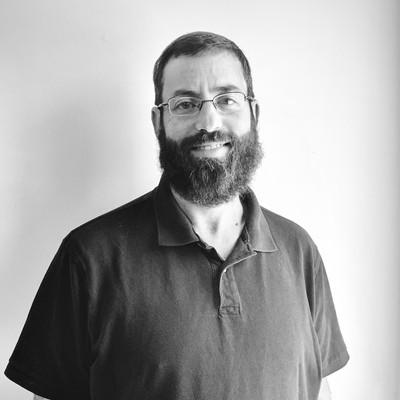
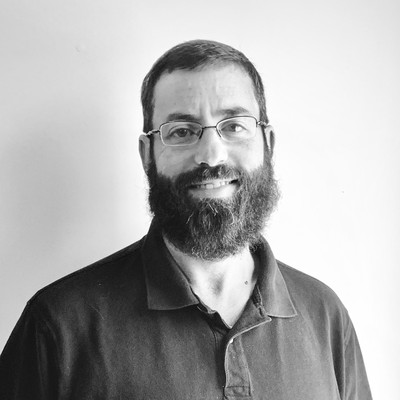
Add family photo collage, tighten profile crop, and polish copy
- Crop profile photo in slightly tighter on face
- Compose grayscale family photo collage for About section
- Rework About section stat cards (swap iF Design Award for 20 Years)
- Fix resume bullet dash alignment and Education/Recognitions header alignment
- Update team growth wording to "zero to 45+" across resume and timeline
- Lead Spekt description with the agentic AI pipeline angle
- Work in "0-to-1" framing across bio and competencies

diff --git a/src/components/sections/AboutSection.tsx b/src/components/sections/AboutSection.tsx
@@ -4,8 +4,8 @@ import { profile, competencies } from '../../data/profile'
 import { CompetencyBadge } from '../ui/CompetencyBadge'
 
 const stats = [
+  { icon: <Award size={16} />, label: '20 Years', sub: 'One company, many chapters' },
   { icon: <FileCode2 size={16} />, label: '6 Patents', sub: 'awarded + 1 pending' },
-  { icon: <Award size={16} />, label: 'iF Design Award', sub: '2021 winner' },
   { icon: <GraduationCap size={16} />, label: 'MS + BS', sub: 'Electrical & Computer Eng.' },
   { icon: <MapPin size={16} />, label: 'Senoia, GA', sub: 'Atlanta Metro' },
 ]
@@ -45,21 +45,33 @@ export function AboutSection() {
             ))}
           </div>
 
-          <div className="md:col-span-2 grid grid-cols-2 gap-4 content-start">
-            {stats.map((stat, i) => (
-              <motion.div
-                key={stat.label}
-                initial={{ opacity: 0, scale: 0.95 }}
-                whileInView={{ opacity: 1, scale: 1 }}
-                viewport={{ once: true, margin: '-40px' }}
-                transition={{ duration: 0.4, delay: i * 0.08 }}
-                className="p-4 rounded-xl bg-[#111827] border border-slate-800 flex flex-col gap-2"
-              >
-                <span className="text-blue-400">{stat.icon}</span>
-                <p className="text-slate-100 font-semibold text-sm">{stat.label}</p>
-                <p className="text-slate-500 text-xs">{stat.sub}</p>
-              </motion.div>
-            ))}
+          <div className="md:col-span-2 flex flex-col gap-4 content-start">
+            <div className="grid grid-cols-2 gap-4">
+              {stats.map((stat, i) => (
+                <motion.div
+                  key={stat.label}
+                  initial={{ opacity: 0, scale: 0.95 }}
+                  whileInView={{ opacity: 1, scale: 1 }}
+                  viewport={{ once: true, margin: '-40px' }}
+                  transition={{ duration: 0.4, delay: i * 0.08 }}
+                  className="p-4 rounded-xl bg-[#111827] border border-slate-800 flex flex-col gap-2"
+                >
+                  <span className="text-blue-400">{stat.icon}</span>
+                  <p className="text-slate-100 font-semibold text-sm">{stat.label}</p>
+                  <p className="text-slate-500 text-xs">{stat.sub}</p>
+                </motion.div>
+              ))}
+            </div>
+            <motion.img
+              src="/images/family-collage.jpg"
+              alt="Family moments"
+              initial={{ opacity: 0, y: 12 }}
+              whileInView={{ opacity: 1, y: 0 }}
+              viewport={{ once: true }}
+              transition={{ duration: 0.6, delay: 0.2 }}
+              className="w-full rounded-xl select-none pointer-events-none grayscale"
+              draggable={false}
+            />
           </div>
         </div>
 
@@ -80,6 +92,7 @@ export function AboutSection() {
             <CompetencyBadge key={c.title} competency={c} index={i} />
           ))}
         </div>
+
       </div>
     </section>
   )

diff --git a/src/data/profile.ts b/src/data/profile.ts
@@ -8,8 +8,8 @@ export const profile = {
   linkedin: 'https://www.linkedin.com/in/brandon-rogers-98727b3/',
   github: 'https://github.com/brogers4',
   bio: [
-    'I build things that haven\'t been built before. For twenty years at Eaton Corporation, I\'ve had the rare privilege of taking ideas from a whiteboard — or a patent filing — all the way to products used by hundreds of thousands of people. Whether growing a software team from three engineers to forty-five, architecting a cloud IoT platform from scratch, or co-inventing a smart circuit breaker that spawned a $100M business, I\'ve always operated at the intersection of deep technical craft and strategic business thinking.',
-    'My career has been defined by doing hard things in emerging spaces — IoT before it had a name, energy management before the grid was "smart," agentic AI workflows before most teams knew where to start. I\'m drawn to problems that require you to invent the solution, not just implement it. That means building not just the product, but the team, the process, the roadmap, and sometimes the market itself.',
+    'I build things that haven\'t been built before. Almost everything I\'ve done in twenty years at Eaton has been 0-to-1 — taking ideas from a whiteboard, a patent filing, or a napkin sketch all the way to products used by hundreds of thousands of people. Whether growing a software team from zero to forty-five engineers, architecting a cloud IoT platform from scratch, or co-inventing a smart circuit breaker that spawned a $100M+ and growing business, I\'ve always operated at the intersection of deep technical craft and strategic business thinking.',
+    'My career has been defined by doing hard things in emerging spaces — IoT before it had a name, energy management before the grid was "smart," agentic AI workflows before most teams knew where to start. I\'m drawn to problems that require you to invent the solution, not just implement it. That means building not just the product, but the team, the process, the roadmap, and sometimes the market itself. That\'s what 0-to-1 really looks like.',
     'Outside of work, I live in Senoia, GA with my wife, our son (14) and daughter (9), and our Australian Shepherd, S\'mores. I love sports, photography, art, and traveling — and I try to bring the same curiosity I have on those adventures into everything I build.',
   ],
   jobsQuote: 'Here\'s to the crazy ones. The misfits. The rebels. The troublemakers. The round pegs in the square holes. The ones who see things differently. They\'re not fond of rules. And they have no respect for the status quo. You can quote them, disagree with them, glorify or vilify them. About the only thing you can\'t do is ignore them. Because they change things. They push the human race forward. And while some may see them as the crazy ones, we see genius. Because the people who are crazy enough to think they can change the world, are the ones who do.',
@@ -48,7 +48,7 @@ export const competencies: Competency[] = [
   },
   {
     title: 'Business Development & Strategy',
-    description: 'Led strategic initiatives generating $300M+ in incremental revenue. Evaluated acquisition targets, built monetization strategies, and represented Eaton at IEEE, SAE, and NEMA.',
+    description: 'Launched multiple 0-to-1 businesses generating $300M+ in incremental revenue. Built go-to-market strategies, monetization models, and evaluated acquisition targets.',
     icon: 'trending-up',
   },
   {

diff --git a/src/data/timeline.ts b/src/data/timeline.ts
@@ -95,7 +95,7 @@ export const timelineRoles: Role[] = [
     title: 'Sr. Engineering Manager, Software & IoT',
     company: 'Eaton Corporation',
     location: 'Peachtree City, GA · Connected Solutions',
-    summary: 'When Eaton launched Connected Solutions as a standalone business unit with a $1B organic growth target, I was asked to turn what had been a scrappy 12-person team into a full-scale engineering organization. Over three years I grew the team to 45+ engineers across the US and India, established the engineering culture, practices, and infrastructure that would support a consumer product with 100K+ deployed devices — and served as product owner across every team while our product org caught up. The hardest part wasn\'t the scale. It was doing it while shipping constantly: two to three releases per month, a 4.7-star app rating, and nearly 30% cloud cost reduction despite doubling users.',
+    summary: 'When Eaton launched Connected Solutions as a standalone business unit with a $1B organic growth target, I was asked to scale what had started as a small IoT architecture team into a full-scale engineering organization. Over three years I grew the team from zero to 45+ engineers across the US and India, established the engineering culture, practices, and infrastructure that would support a consumer product with 100K+ deployed devices — and served as product owner across every team while our product org caught up. The hardest part wasn\'t the scale. It was doing it while shipping constantly: two to three releases per month, a 4.7-star app rating, and nearly 30% cloud cost reduction despite doubling users.',
     projects: [
       {
         id: 'blh-app-scale',
@@ -350,7 +350,7 @@ export const personalProjects = [
     id: 'spekt',
     title: 'spekt.',
     thumbnailImage: '/images/projects/spekt/spekt-lockup.png',
-    description: 'A local-first artifact generator for product owners — turn context into PRDs, PRFAQs, Epics, User Stories, and Backlogs, all stored as editable markdown files on your machine. spekt. is a browser-based dashboard where projects live in a local directory as plain markdown, with no backend, no cloud sync, and no accounts. Context (meeting notes, transcripts, PDFs, images) feeds a Claude-powered generation pipeline that produces the full suite of product artifacts. A direct application of the agentic AI product tooling I built at Eaton — now as a standalone open-source tool.',
+    description: 'An agentic AI pipeline that turns raw product context — meeting notes, transcripts, PDFs, images — into a full suite of product artifacts: PRDs, PRFAQs, Epics, User Stories, and Backlogs. The Claude-powered generation pipeline handles the heavy lifting; you stay in the loop for review and refinement. spekt. is a browser-based dashboard where everything lives locally as plain markdown files — no backend, no cloud sync, no accounts. A direct application of the agentic AI tooling I built at Eaton, now as a standalone open-source tool.',
     githubUrl: 'https://github.com/brogers4/spekt',
     images: [
       '/images/projects/spekt/spekt-lockup.png',

diff --git a/src/components/sections/ResumeSection.tsx b/src/components/sections/ResumeSection.tsx
@@ -20,7 +20,7 @@ const experience = [
     company: 'Eaton Corporation',
     period: 'March 2021 – February 2024',
     bullets: [
-      'Grew a global engineering team from ~12 to 45+ engineers across US and India, spanning frontend/backend, mobile, QA, DevOps, UI/UX, and cybersecurity.',
+      'Grew a global engineering team from zero to 45+ engineers across US and India, spanning frontend/backend, mobile, QA, DevOps, UI/UX, and cybersecurity.',
       'Scaled Brightlayer Home consumer IoT app to 100K+ devices and 60K users, improving App Store rating to 4.7 stars while reducing cloud costs ~30%.',
       'Launched AbleEdge Smart Breaker Gen 2; built data ingestion pipelines, B2B APIs, and developer tools supporting mass market and partner ecosystem.',
       'Established CICD, TDD, DORA metrics, architectural review boards, and agile practices across all teams; improved release cadence from quarterly to 2–3x/month.',